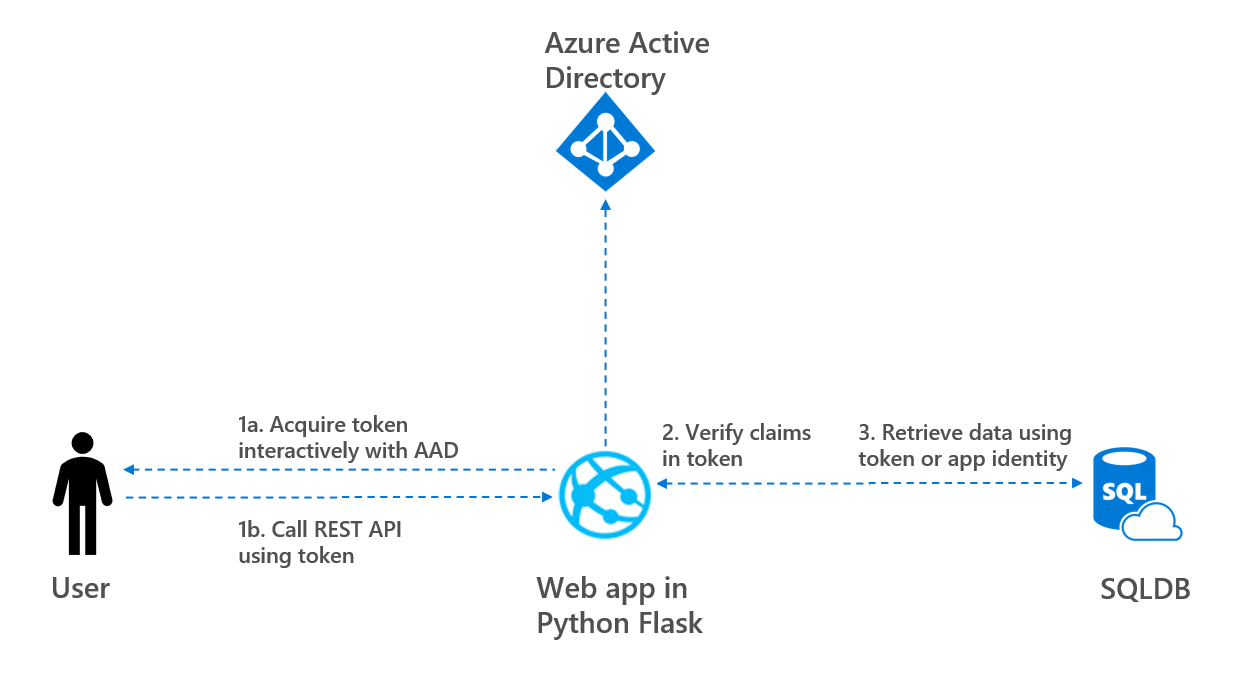
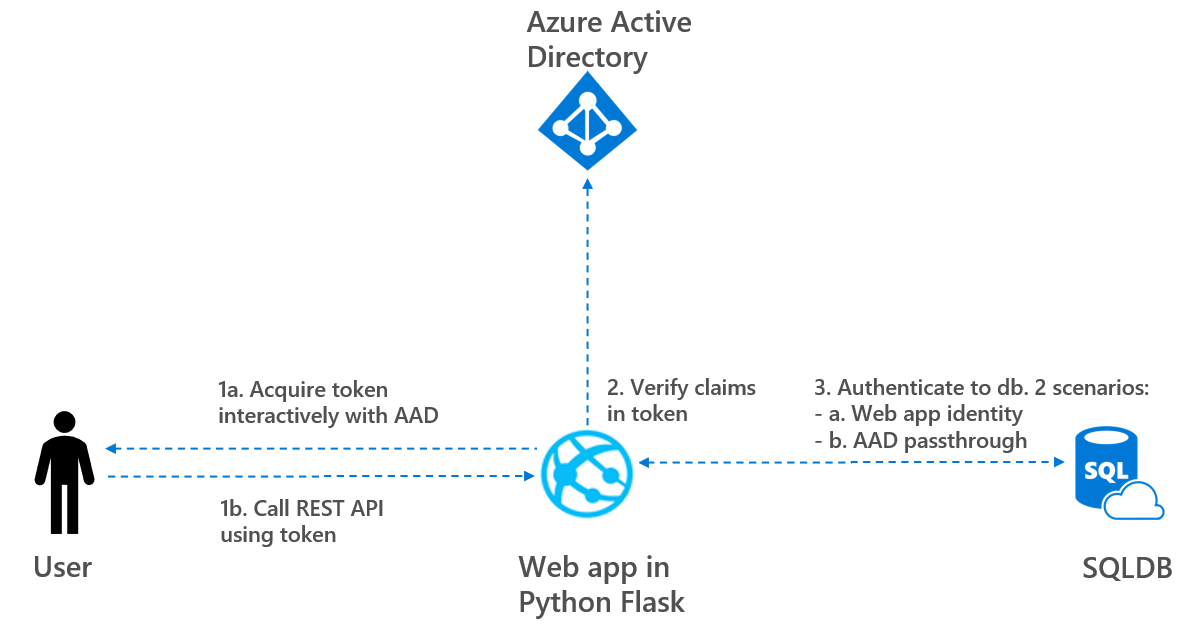
added mi step to readme.md

Changed region(s): [[0.031, 0.4833, 0.9933, 0.9968], [0.4346, 0.0, 0.5898, 0.3927], [0.4656, 0.4229, 0.4966, 0.4531]]

diff --git a/app_config.py b/app_config.py
@@ -51,7 +51,7 @@ SCOPE = ["https://database.windows.net//.default"]
 # Notice that user shall also be added to the database as externa user and be granted the correct roles to retrieve data from tables
 AAD_ROLE_CHECK = False
 # Do no change settings below, also when role check is set false
-ROLES_CONFIG = {"customer": {"role": "UserReaders", "query": "select @@version"}, "product": {"role": "read_product", "query": "select @@version"}}
+ROLES_CONFIG = {"customer": {"role": "read_customer", "query": "SELECT top 10 * FROM SalesLT.Customer"}, "product": {"role": "read_product", "query": "SELECT top 10 * FROM SalesLT.Product"}}
 
 #
 # 3. DATABASE SETTINGS

diff --git a/README.md b/README.md
@@ -1,21 +1,19 @@
-## Python web application using AAD passthrough to authenticate against Azure SQL
-
-## About this sample
-
-This sample is derived from https://github.com/Azure-Samples/ms-identity-python-webapp, in which user data is retrieved from Microsoft Graph.
+## Python web application using Azure AD to authenticate against Azure SQL
 
 ### Overview
 
-This sample demonstrates a Python web application that signs-in users with the Microsoft identity platform and calls an Azure SQL Database. The following steps are executed
-
-1. User logs in and the python web application uses the Microsoft Authentication Library (MSAL) to obtain a JWT access token from Azure AD
-2. User call a REST API to fetch data using token 
-3. Web app matches the claims in the token with required roles to verify if user is allowed to retrieve data
-4. Web app authenticate to the database. Two scenarios are supported in this web app as follows:
-   - Scenario a. AAD User Passthrough: The access token is used as a bearer token to authenticate the user when calling the Azure SQL Database.
-   - Scenario b. AAD Application Identity: The Identity of the application is used to create bearer token and to authenticate to the database
+This sample demonstrates a Python web application that signs-in users with the Microsoft identity platform and calls an Azure SQL Database. Token claims are used to verify if users has correct role to access data. The web app supports both AAD Application Identity and AAD User passthrough to access the database, see also overview below.
 
 ![Overview](./ReadmeFiles/architecture_v1.png)
+
+The following steps are executed
+
+- 1a: User logs in and the python web application and obtains a JWT access token from Azure AD
+- 1b: User call a REST API to fetch data using token 
+- 2: Web app matches the claims in the token with required roles to verify if user is allowed to retrieve data
+- 3: Web app authenticate to the database. Two scenarios are supported in this web app as follows:
+  - Scenario a. AAD Application Identity: The Identity of the application is used to create bearer token and to authenticate to the database
+  - Scenario b. AAD User Passthrough: The access token is used as a bearer token to authenticate the user when calling the Azure SQL Database.
 
 In the remaining of this blog, the following steps are executed:
 - Step 1: Acquire token and call api using token
@@ -23,18 +21,20 @@ In the remaining of this blog, the following steps are executed:
 - Step 3a: AAD Application Identity authentication
 - Step 3b: AAD User passthrough authentication
 
+This sample is derived from https://github.com/Azure-Samples/ms-identity-python-webapp, in which user data is retrieved from Microsoft Graph.
+
 ### Step 1: Acquire token and call api using token
 
 This sample shows how to build a Python web app using Flask and MSAL Python,
 that signs in a user, and get access to Azure SQL Database. For more information about how the protocols work in this scenario and other scenarios, see [Authentication Scenarios for Azure AD](https://docs.microsoft.com/en-us/azure/active-directory/develop/active-directory-authentication-scenarios). In this step, the following sub steps are executed
 
-- 1a. Preliminaries
-- 1b. Create and configure app registration
-- 1c. Create and configure Azure SQL database
-- 1d. Configure the pythonwebapp project
-- 1e. Run the sample
+- 1.1: Preliminaries
+- 1.2: Create and configure app registration
+- 1.3: Create and configure Azure SQL database
+- 1.4: Configure the pythonwebapp project
+- 1.5: Run the sample
 
-#### 1a. Preliminaries
+#### 1.1: Preliminaries
 
 To run this sample, you'll need:
 
@@ -42,23 +42,19 @@ To run this sample, you'll need:
 - An Azure Active Directory (Azure AD) tenant. For more information on how to get an Azure AD tenant, see [how to get an Azure AD tenant.](https://docs.microsoft.com/azure/active-directory/develop/quickstart-create-new-tenant)
 - Git to clone the following project: git clone https://github.com/rebremer/ms-identity-python-webapp-sqldb.git or download and extract the repository .zip file.
 
-#### 1b. Create and configure app registration
+#### 1.2: Create and configure app registration
 
 Create and configure an app registration as follows:
 
-- Create an app registration using the steps in this [link](https://docs.microsoft.com/en-us/azure/azure-sql/database/active-directory-interactive-connect-azure-sql-db#register-your-app-and-set-permissions) to create an app registration. Key is to add permissions for Azure SQL database as delegated user
-- Important: Admin consent is required for Azure SQL Database. This can be either done by selecting **Grant_admin consent for Default Directory** in the **permissions** tab or at runtime while logging in
-- Use `http://localhost:5000/getAToken` as reply URL. In case you did not do this during creation, it can be added using the **Authentication** tab of the app registration
-- Go to **Certificates & Secrets** to create a secret. Copy the client_id and client secret
+- Create an app registration using the steps in this [link](https://docs.microsoft.com/en-us/azure/active-directory/develop/quickstart-register-app) to create an app registration. Two remarks:
+  - Use `http://localhost:5000/getAToken` as reply URL. In case you did not do this during creation, it can be added using the **Authentication** tab of the app registration
+  - Go to **Certificates & Secrets** to create a secret. Copy the client_id and client secret
 
-#### 1c:  Create an Azure SQL DB
+#### 1.3: Create an Azure SQL DB
 
 - Create an Azure SQL DB using this [link](https://docs.microsoft.com/en-us/azure/azure-sql/database/single-database-create-quickstart?tabs=azure-portal#create-a-single-database)
-- Once the database is created, add Azure AD users and give a reader role using the following two statements:
-  - `CREATE USER [<<AAD user email address>>] FROM EXTERNAL PROVIDER; `                      
-  - `EXEC sp_addrolemember [db_datareader], [<<AAD user email address>>]; `
 
-#### 1d: Configure the pythonwebapp project
+#### 1.4: Configure the pythonwebapp project
 
 1. Open the `app_config.py` file
 2. Find the app key `<<Enter_the_Tenant_Name_Here>>` and replace the existing value with your Azure AD tenant name.
@@ -66,10 +62,9 @@ Create and configure an app registration as follows:
    Now you can set the secret in environment variable `<<CLIENT_SECRET>>`,
    and then adjust `app_config.py` to pick it up.
 4. Find the app key `<<Enter_the_Application_Id_here>>` and replace the existing value with the application ID (clientId) of the `python-webapp` application copied from the Azure portal.
-5. Find the app key `<<Enter_the_Application_Id_here>>` and replace the existing value with the application ID (clientId) of the `python-webapp` application copied from the Azure portal.
-6. Find the app key `<<Enter_logical_SQL_server_URL_here>>` and replace the existing value with the SQL server name created in step 3. Subsequently, change the app key `<<Enter_SQL_database_name_here>>` with the database name.
+5. Find the app key `<<Enter_logical_SQL_server_URL_here>>` and replace the existing value with the SQL server name created in step 3. Subsequently, change the app key `<<Enter_SQL_database_name_here>>` with the database name.
 
-#### Step 1e: Run the sample
+#### Step 1.5: Run the sample
 
 - You will need to install dependencies using pip as follows:
 ```Shell
@@ -81,11 +76,136 @@ Run app.py from shell or command line. Note that the port needs to match what yo
 $ flask run --port 5000
 ```
 
-## Todo
+When the app is run locally, it can be visited by localhost:5000 (not 127.0.0.1:5000). In the next step, the user roles are set that can be used to verify if user is allowed to retrieve data using the API
 
-- Step 2: Verify claims in token
-- Step 3a: AAD Application Identity authentication
-- Step 3b: AAD User passthrough authentication
+### Step 2: Verify claims in token
+
+In this step, the claims in the tokens can be set. The following sub steps are executed:
+
+- 2.1: Set configuration in app config
+- 2.2: Add roles to manifest
+- 2.3: Assign user to role
+
+#### 2.1: Set configuration in app config
+
+Claim verification is an optional step and can be disabled using the following setting
+in `app_config.py` file
+
+```Python
+AAD_ROLE_CHECK = False
+```
+
+#### 2.2: Add roles to manifest
+
+Follow the steps in [this](https://docs.microsoft.com/en-us/azure/active-directory/develop/howto-add-app-roles-in-azure-ad-apps) tutorial to add roles to app registration created in step 1.1. As manifest, the following appRles shall be used:
+
+```json
+	"appRoles": [
+		{
+			"allowedMemberTypes": [
+				"User"
+			],
+			"description": "Read customer role can read Customer data from SQLDB",
+			"displayName": "read_customer",
+			"id": "a8161423-2e8e-46c4-9997-f984faccb625",
+			"isEnabled": true,
+			"value": "read_customer"
+		},
+		{
+			"allowedMemberTypes": [
+				"User"
+			],
+			"description": "Read product can read Product data from SQLDB",
+			"displayName": "read_product",
+			"id": "72ff9f53-8011-49e0-a4f4-cc1bb26206fa",
+			"isEnabled": true,
+			"value": "read_product"
+		}
+	],
+```
+
+#### 2.3: Assign user to role
+
+The assignment of users is explained in [this](https://docs.microsoft.com/en-us/azure/active-directory/develop/howto-add-app-roles-in-azure-ad-apps#assign-users-and-groups-to-roles). As a test, two users can be created. User 1 is assigned the `read_customer`, whereas user 2 gets the `read_product` role. 
+
+In the next step, the application identity is used to retrieve data form the database.
+
+### Step 3a: AAD Application Identity authentication
+
+In this step, the Application Identity of the app registration is used to retrieve data. The following sub steps are executed:
+
+- 3a.1: Set configuration in app config
+- 3a.2: Add app registration as user to database
+
+#### 3a.1: Set configuration in app config
+
+ AAD Application Identity authentication can be set in the `app_config.py` file as follows
+
+```Python
+# In case DATABASE_AUTHENTICATION = "AAD_USER_PASSTHROUGH", the user bearer token is used to authenticate to the database.
+# SCOPE https://database.windows.net//.default is required, see below. Caution: this scope likely requirems admin consent
+#DATABASE_AUTHENTICATION = "AAD_USER_PASSTHROUGH"
+#SCOPE = ["https://database.windows.net//.default"]
+#
+# Option 1b. AAD_APPLICATION_MI
+#
+# In case DATABASE_AUTHENTICATION = "AAD_APPLICATION_MI", the MI of the application is used to create bearer token and to authenticate to the database.
+# SCOPE can be empty, no admin consent requirement
+DATABASE_AUTHENTICATION = "AAD_APPLICATION_MI"
+SCOPE = []
+```
+
+#### 3a.2: Set configuration in app config
+
+- Add Azure AD users and give a reader role using the following two statements:
+  - `CREATE USER [<<Name of app registration>>] FROM EXTERNAL PROVIDER; `                      
+  - `EXEC sp_addrolemember [db_datareader], [<<Name of app registration>>]; `
+
+Now the app can be run as described in step 1.5. When you click on the link `Get Customer data from Database` , customer data is retrieved. Subsequently, when there is clicked on the link `Get PRoduct data from Database`, product data is retrieved (provided that claims are set correctly for user in step 2 or check is disabled)
+
+In this step, the identity of the app is used to retrieve data. However, the identity of the user can also passed (AAD passthrough) to retrieve data from the database. 
+
+### Step 3a: AAD Application Identity authentication
+
+In the step, the Identity of the user itself is used to retrieve data. The following sub steps are executed:
+
+- 3b.1: Set configuration in app config
+- 3b.2: Add Azure SQL DB Scope to app registration
+- 3b.3: Add AAD user to database
+
+#### 3b.1: Set configuration in app config
+
+ AAD Application Identity authentication can be set in the `app_config.py` file as follows
+
+```Python
+# In case DATABASE_AUTHENTICATION = "AAD_USER_PASSTHROUGH", the user bearer token is used to authenticate to the database.
+# SCOPE https://database.windows.net//.default is required, see below. Caution: this scope likely requirems admin consent
+DATABASE_AUTHENTICATION = "AAD_USER_PASSTHROUGH"
+SCOPE = ["https://database.windows.net//.default"]
+#
+# Option 1b. AAD_APPLICATION_MI
+#
+# In case DATABASE_AUTHENTICATION = "AAD_APPLICATION_MI", the MI of the application is used to create bearer token and to authenticate to the database.
+# SCOPE can be empty, no admin consent requirement
+#DATABASE_AUTHENTICATION = "AAD_APPLICATION_MI"
+#SCOPE = []
+```
+
+#### 3b.2: Add Azure SQL DB Scope to app registration
+
+- Modify your app registration created in step 1.2. with permissions for Azure SQL database as delegated user. This is explained in this [link](https://docs.microsoft.com/en-us/azure/azure-sql/database/active-directory-interactive-connect-azure-sql-db#register-your-app-and-set-permissions) to create an app registration. Key is to add 
+- Important: Admin consent is required for Azure SQL Database. This can be either done by selecting **Grant_admin consent for Default Directory** in the **permissions** tab or at runtime while logging in
+
+#### 3b.3: Add AAD user to database
+
+- Since AAD passtrhough is used in this step, the users themselves shall have the appropriate roles in the SQLDB as external user and datareader. See example how to do this below.
+  - `CREATE USER [<<AAD user email address>>] FROM EXTERNAL PROVIDER; `                      
+  - `EXEC sp_addrolemember [db_datareader], [<<AAD user email address>>]; `
+    -  (in case you want to be more granular in rolemembers in the database, `read_customer` reads data from SalesLT.Customer, whereas `read_product` reads data from SalesLT.Product)
+
+### Ready to go
+
+In this tutorial, 
 
 ## More information
 
